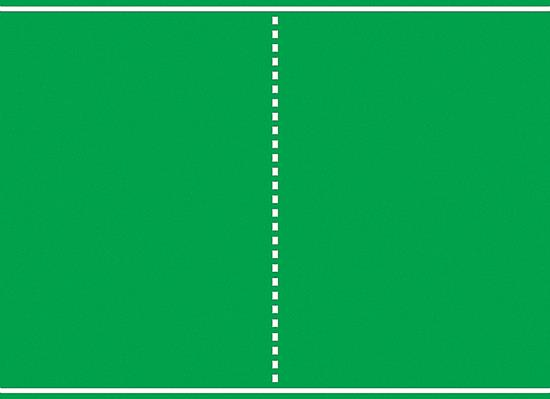
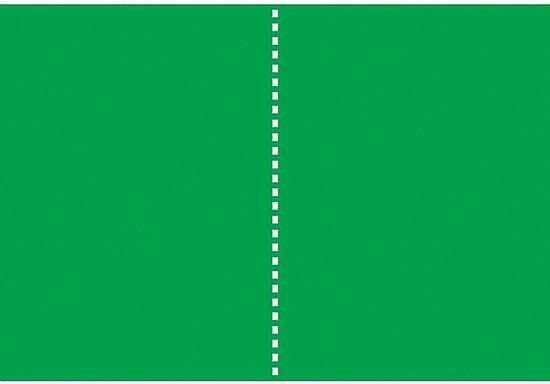
add different backgrounds"

Changed region(s): [[0.0, 0.5, 1.0, 1.0], [0.0, 0.0, 1.0, 0.4062], [0.4945, 0.4375, 0.5255, 0.4688]]

diff --git a/frontend/src/components/Home.vue b/frontend/src/components/Home.vue
@@ -24,9 +24,13 @@
         <button v-if="this.role != 0 && !this.coords.end" v-on:click="move()">Play</button>
         <button v-if="this.role != 0 && this.coords.end" v-on:click="replay()">Replay</button>
         <button v-on:click="test()">Test</button>
+
         <button v-if="this.role > 0 && this.coords.vxBall != 2 && this.coords.vxBall != -2" v-on:click="normal()">Normal mode</button>
         <button v-if="this.role > 0 && this.coords.vxBall != 3 && this.coords.vxBall != -3" v-on:click="hard()">Hard mode</button>
         <button v-if="this.role > 0 && this.coords.vxBall != 4 && this.coords.vxBall != -4" v-on:click="insane()">Insane mode</button>
+
+        <button v-if="this.role > 0" v-on:click="normalBg()">Normal background</button>
+        <button v-if="this.role > 0" v-on:click="greenBg()">Green background</button>
         <h2 v-if="this.coords.spects.length">They are looking the game :</h2>
         <h2 v-for="s in this.coords.spects" :key="s">- {{s}}, </h2>
       </div>
@@ -170,6 +174,21 @@ export default {
       this.drawBar();
 	});
 
+    socket.on("normal-bg", data => {
+      console.log("normal-bg")
+      HTMLElement =document.getElementById("pong");
+      document.getElementById("pong").style.removeProperty('background-color');
+      document.getElementById("pong").style.backgroundImage='url("../../public/background.jpg")';
+      document.getElementById("pong").style.backgroundSize='cover';
+	  });
+
+    socket.on("green-bg", data => {
+      console.log("green-bg")
+      document.getElementById("pong").style.removeProperty('background-image');
+      document.getElementById("pong").style.removeProperty('background-size');
+      document.getElementById("pong").style.backgroundColor='darkgray';
+	  });
+
     socket.on("end-game", matchHist => {
       console.log('end of the game');
       axios
@@ -233,6 +252,14 @@ export default {
         coords: this.coords,
         user: this.user});
     },
+    normalBg: function() {
+      if (!this.coords.moving)
+        socket.emit('normal-bg', this.coords.room);
+    },
+    greenBg: function() {
+      if (!this.coords.moving)
+        socket.emit('green-bg', this.coords.room);
+    },
     normal: function() {
       if (!this.coords.moving)
         socket.emit('normal', this.coords.room);
@@ -279,6 +306,8 @@ canvas {
   border: 3px solid black;
   border-radius: 5px;
   background-color: darkgray;
+  background-image: url("../../public/background.jpg");
+  background-size:cover;
 }
 .canvas-wrapper {
   padding-top: 35px;

diff --git a/backend/src/pong/pong.gateway.ts b/backend/src/pong/pong.gateway.ts
@@ -137,6 +137,16 @@ export class PongGateway {
     console.log('Role : ' + (this.players % 2 == 0 ? 2 : 1));
   }
 
+  @SubscribeMessage('normal-bg')
+  normalBg(@MessageBody() room: string): void  {
+    this.server.to(room).emit('normal-bg', '');
+  }
+
+  @SubscribeMessage('green-bg')
+  greenBg(@MessageBody() room: string): void  {
+    this.server.to(room).emit('green-bg', '');
+  }
+
   @SubscribeMessage('bar1-top')
   bar1Top(@MessageBody() room: string): void  {
     console.log('bar1-top')
